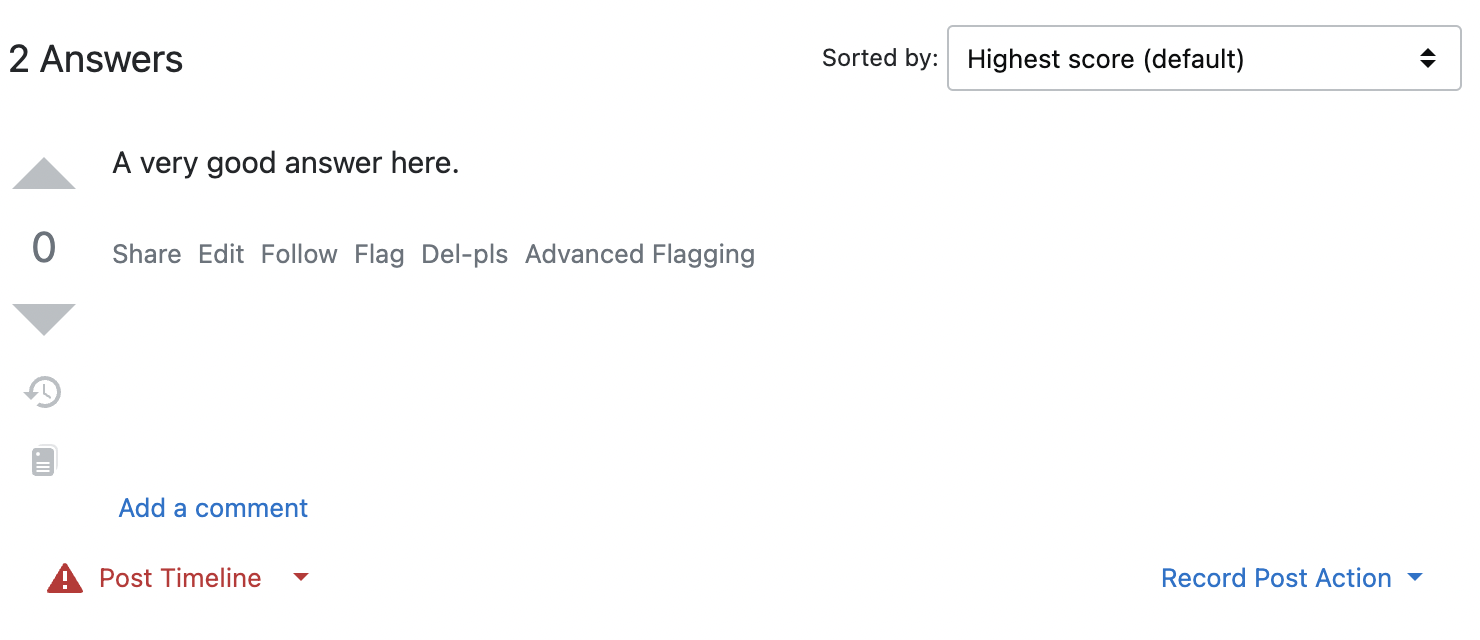
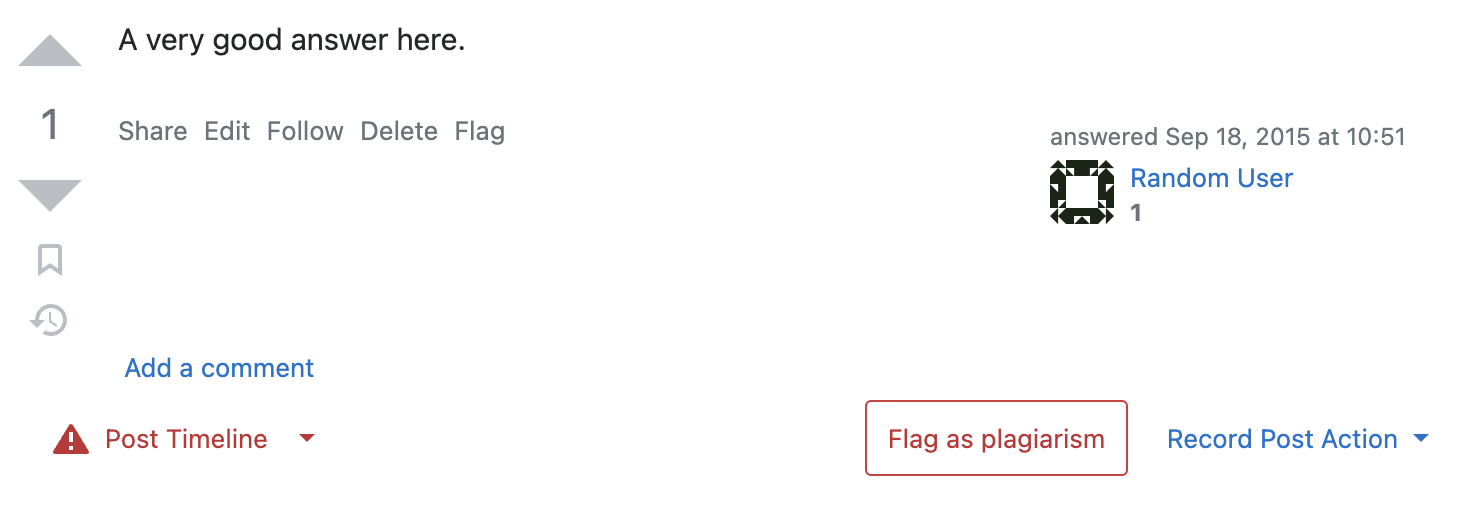
Update readme for 0.4.5 and Flagged event_type updates

diff --git a/README.md b/README.md
@@ -8,45 +8,68 @@ Requires `GM_getValue`, `GM_setValue`, and `GM_deleteValue` to store access_toke
 
 On all posts (excepting those you authored) there is a control panel.
 
+<a href="./readme-images/PostSummary/blank-post-indicator.png"><img src="./readme-images/PostSummary/blank-post-indicator.png" width="650px"></a>
+
 There are two options "Record Post Action" and "Post Timeline".
 
 ### Recording Post Actions
 
-You can use "Record Post Action" to indicate you've performed an action on the post. This will let others know that this
-post has been already been handled in some way.
+You can use "Record Post Action" to provide feedback to Case Manager. This will let others know that this
+post has been already been evaluated/handled in some way.
+
+Feedback types are broken into two categories "Status" and "Action". "Status" review types indicate the content of the
+post and "Action" review types are about how the post was handled.
+
+If the post is plagiarised, feedback should almost always consist of _both_ a "Status" and an "Action" review type. For
+example, "Plagiarised" + "Edited" (to include attribution), or "Plagiarised" + "Flagged", or "Plagiarised" + "Deleted".
 
 #### How to know which action to select
 
-| Feedback    | Reason                                                                                                                                                                                      |
-|-------------|---------------------------------------------------------------------------------------------------------------------------------------------------------------------------------------------|
-| Looks OK    | Indicates that the post is likely not plagiarised.                                                                                                                                          |
-| Edited      | Indicates the post was edited to include appropriate attribution rather than being removed.                                                                                                 |
-| Plagiarised | Indicates the post is plagiarised and that it has been flagged for removal.                                                                                                                 |
-| Deleted     | Indicates the post was deleted.                                                                                                                                                             |
-| Suspicious  | "Looks OK" but it... doesn't. Indicates the post is likely plagiarised even though a source could not be found or the discovered source is not definitive enough to merit flagging/removal. |
+| Action      | Review Type | Reason                                                                                                                                                                                      |
+|-------------|-------------|---------------------------------------------------------------------------------------------------------------------------------------------------------------------------------------------|
+| Looks OK    | Status      | Indicates that the post is likely not plagiarised.                                                                                                                                          |
+| Edited      | Action      | Indicates the post was edited to include appropriate attribution rather than being removed.                                                                                                 |
+| Plagiarised | Status      | Indicates the post is plagiarised.                                                                                                                                                          |
+| Flagged     | Action      | Indicates the post has been flagged.                                                                                                                                                        |
+| Deleted     | Action      | Indicates the post was deleted.                                                                                                                                                             |
+| Suspicious  | Status      | "Looks OK" but it... doesn't. Indicates the post is likely plagiarised even though a source could not be found or the discovered source is not definitive enough to merit flagging/removal. |
 
-[![][1]][1]
+<a href="./readme-images/PostSummary/post-action-panel.png"><img src="./readme-images/PostSummary/post-action-panel.png" width="450px"></a>
 
 You can remove your action at any point by pressing the clear button in the "Record Post Action" popup.
 
-[![][4]][4]
+<a href="./readme-images/PostSummary/clear-post-action-button.png"><img src="./readme-images/PostSummary/clear-post-action-button.png" width="450px"></a>
+
+### Flagging Posts
+
+You can both flag and provide feedback in a single step with the flag as plagiarism form which can be accessed via the "Flag as plagiarism" button in the post control panel at the bottom of every answer.
+
+
+This form will allow you to fill out the relevant information to raise a "PlagiarizedContent" flag and choose to log feedback via a toggle.
+
+The modal is draggable and will preserve data even if the modal is closed (but will not preserve through page reloads).
+
+<a href="./readme-images/PostSummary/flag-post-modal.png"><img src="./readme-images/PostSummary/flag-post-modal.png" width="550px"></a>
+
 
 ### Viewing Post Timeline
 
 If the post has already been actioned on (this is any action including "Looks OK"), the "Post Timeline" button will
 become enabled and have an indicator
 
-[![][2]][2]
+
+<a href="./readme-images/PostSummary/timeline-event-indicator.png"><img src="./readme-images/PostSummary/timeline-event-indicator.png" width="650px"></a>
+
 
 Clicking on the "Post Timeline" button will let you view the timeline of actions on the post and who performed the
 action.
 
-[![][3]][3]
+<a href="./readme-images/PostSummary/timeline-view.png"><img src="./readme-images/PostSummary/timeline-view.png" width="450px"></a>
 
 ### Summary Profile Indicator
 
 Any posts which have any feedback logged in the system, will also have an indicator on the user's answers
-tab /user?tab=answers. 
+tab /user?tab=answers.
 
 There can be up to 4 different indicators on a post indicating actions taken.
 
@@ -195,9 +218,11 @@ Clicking on the tab will bring you to the [UserScript Settings page][settings pa
 ## Moderator Tools
 
 ### Nuke Post
+
 #### Post-specific options
 
-Moderators gain access to an additional button on each post, which allows the post to easily be removed and feedback provided to the Case Manager.
+Moderators gain access to an additional button on each post, which allows the post to easily be removed and feedback
+provided to the Case Manager.
 
 <a href="./readme-images/ModOnly/nuke-plagiarism-button.png"><img src="./readme-images/ModOnly/nuke-plagiarism-button.png" width="450px"></a>
 
@@ -205,20 +230,25 @@ Clicking this button opens a modal with options:
 
 <a href="./readme-images/ModOnly/nuke-plagiarism-console.png"><img src="./readme-images/ModOnly/nuke-plagiarism-console.png" width="450px"></a>
 
-
-There are three options available and up to 4 actions will be taken. The post **will always be deleted** even if all options are unchecked.
+There are three options available and up to 4 actions will be taken. The post **will always be deleted** even if all
+options are unchecked.
 
 When the Nuke button is pressed:
-1. The character count is validated depending on which options are selected. Comments, Flag Source, and Flag details have different length requirements, all limits are validated based on the selected options.
-2. If the Flag option is selected, the post is flagged using the text in the flag source and flag detail textareas. If the flag operation fails no further actions are taken (an error is displayed).
-3. A "Delete as plagiarism" vote is added to the post which will mark the plagiarism flag helpful and apply plagiarism penalties. If the delete operation fails, no further action is taken.
-4. If the Comment option is selected, a comment is added to the post.
-5. If the Log option is selected, feedback is logged in the Case Manager. The post is marked as "Plagiarised" and "Deleted".
 
+1. The character count is validated depending on which options are selected. Comments, Flag Source, and Flag details
+   have different length requirements, all limits are validated based on the selected options.
+2. If the Flag option is selected, the post is flagged using the text in the flag source and flag detail textareas. If
+   the flag operation fails no further actions are taken (an error is displayed).
+3. A "Delete as plagiarism" vote is added to the post which will mark the plagiarism flag helpful and apply plagiarism
+   penalties. If the delete operation fails, no further action is taken.
+4. If the Comment option is selected, a comment is added to the post.
+5. If the Log option is selected, feedback is logged in the Case Manager. The post is marked as "Plagiarised" and "
+   Deleted".
 
 #### Detail Text manager
 
-Moderators also have an additional option in their [settings page] to specify what the default form values for nuking posts.
+Moderators also have an additional option in their [settings page] to specify what the default form values for nuking
+posts.
 
 | Field                 | Default      | Description                                                                                                                                                                           |
 |-----------------------|--------------|---------------------------------------------------------------------------------------------------------------------------------------------------------------------------------------|
@@ -228,19 +258,10 @@ Moderators also have an additional option in their [settings page] to specify wh
 | Should Comment        | Unchecked    | Leave a comment on the post by default. This is false by default since "Delete as plagiarism" now causes the UI to show the reason for deletion.                                      |
 | Should Log            | Checked      | Log feedback with Case Manager. This is true by default to help to record patterns of behaviour.                                                                                      |
 
-
 <a href="./readme-images/ModOnly/edit-nuke-post-default-settings.png"><img src="./readme-images/ModOnly/edit-nuke-post-default-settings.png" width="450px"></a>
 
 
 [settings page]: https://stackoverflow.com/users/current?tab=case-manager-settings
-
-[1]: ./readme-images/PostSummary/post-action-panel.png
-
-[2]: ./readme-images/PostSummary/timeline-event-indicator.png
-
-[3]: ./readme-images/PostSummary/timeline-view.png
-
-[4]: ./readme-images/PostSummary/clear-post-action-button.png
 
 [5]: ./readme-images/PostSummary/answer-page-indicator.png
 
